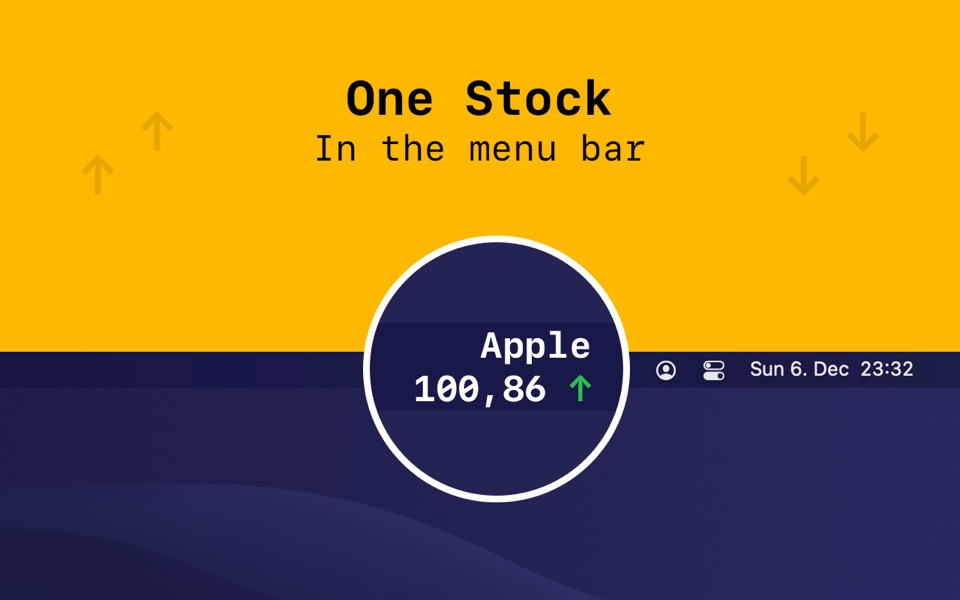
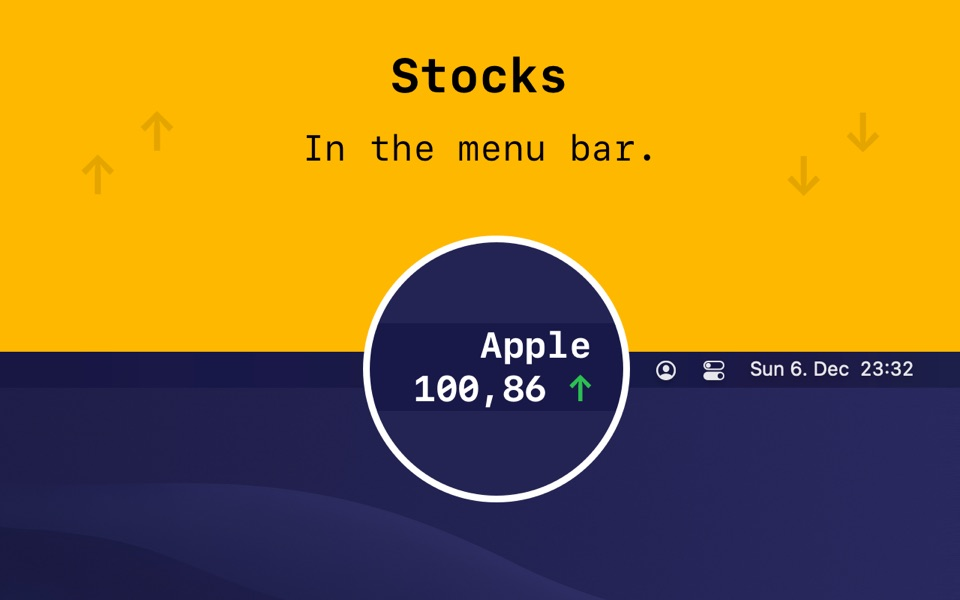
Update screenshots and text for version 2.0

Changed region(s): [[0.3125, 0.09, 0.6875, 0.27]]

diff --git a/index.html b/index.html
@@ -19,7 +19,7 @@
 				<img src="./images/logo.png" srcset="./images/logo.png, ./images/logo@2x.png 2x" class="logo" alt="StockMonitor Logo" />
 				<h1>StockMonitor App</h1>
 				<span class="subtitle">
-					StockMonitor brings the stock or index you're most interested in to your macOS menu bar. To have an even better sight on your investments you can show the current value of your stake. If the current stock price is higher than your buying price it turns green, when it's lower it turns red. It also shows the trend based on the last price one day before.
+					StockMonitor brings the stocks you're interested in to your macOS menu bar. To have an even better look on your investments you can show the current value of your stake. Value changes can easily be displayed. It also shows the trend based on the last price one day before.
 				</span>
 				<span class="download-button">
 					<a href="https://apps.apple.com/app/id1543629323">
